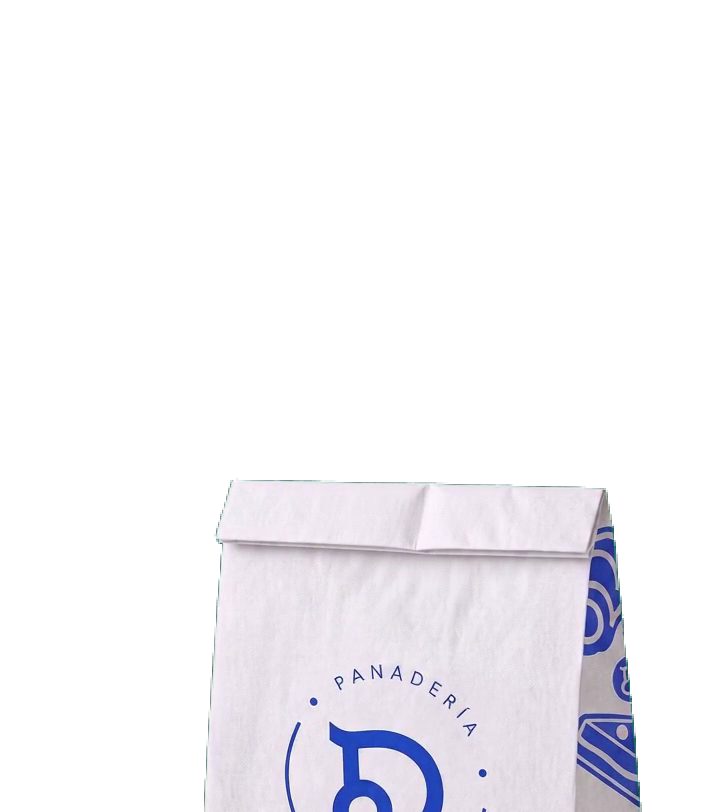
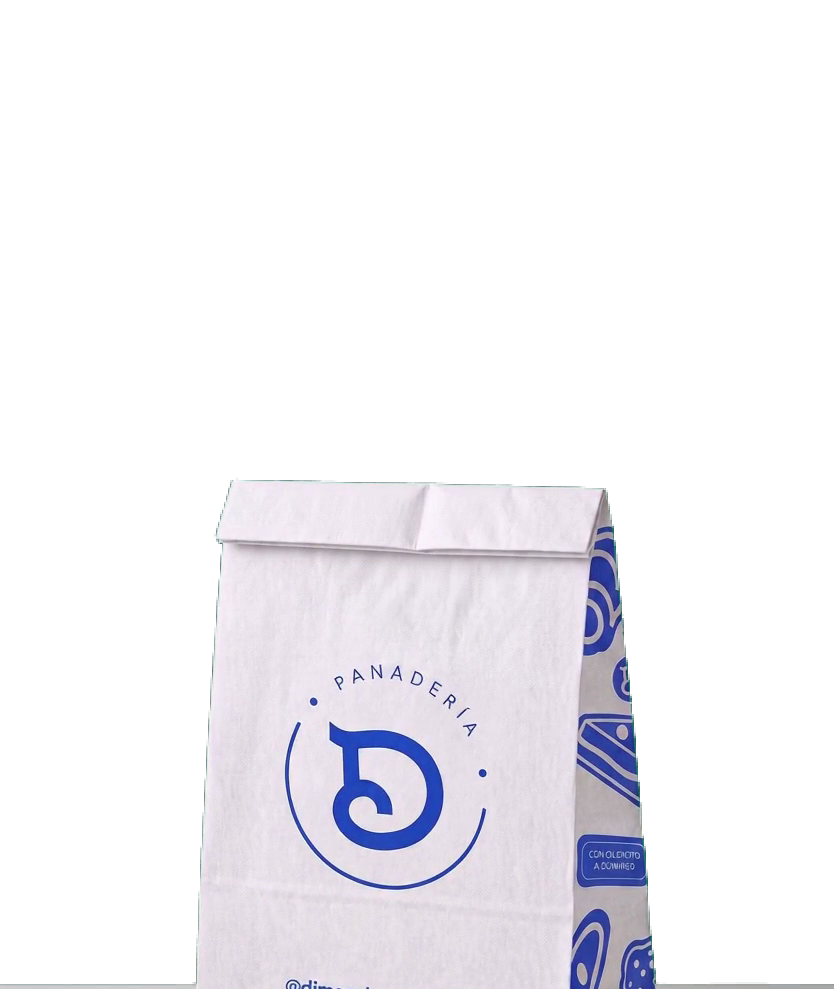
delivery: bolsa completa + mano nítida + entrada desde arriba
- Recorte del clip a la base real de la bolsa (estaba cortada).
- webm re-encodeado casi-lossless (crf 10) → se va el pixelado.
- La mano ENTRA deslizándose desde arriba (ManoClip), ya no aparece de golpe.

Changed region(s): [[0.0, 0.4618, 1.0, 1.0], [0.3361, 0.7389, 0.6417, 1.0], [0.6111, 0.8621, 0.6417, 0.8929]]

diff --git a/motor-contenido/remotion/src/components/PlacaDeliveryVideo.tsx b/motor-contenido/remotion/src/components/PlacaDeliveryVideo.tsx
@@ -148,6 +148,32 @@ const Calle: React.FC<{ opacity: number; freezeFrame: number }> = ({ opacity, fr
   );
 };
 
+/** El clip real de la mano, que ENTRA deslizándose desde arriba (no aparece de golpe). */
+const ManoClip: React.FC<{ box: { left: number; bottom: number; width: number; height: number } }> = ({ box }) => {
+  const f = useCurrentFrame();
+  const entryY = interpolate(f, [0, 18], [-880, 0], {
+    extrapolateLeft: "clamp",
+    extrapolateRight: "clamp",
+    easing: Easing.out(Easing.cubic),
+  });
+  return (
+    <OffthreadVideo
+      src={staticFile("assets/tv/delivery-mano-real.webm")}
+      transparent
+      muted
+      style={{
+        position: "absolute",
+        left: box.left,
+        bottom: box.bottom,
+        width: box.width,
+        height: box.height,
+        transform: `translateX(-50%) translateY(${entryY}px)`,
+        filter: "drop-shadow(0 16px 36px rgba(0,0,0,0.3))",
+      }}
+    />
+  );
+};
+
 export const PlacaDeliveryVideo: React.FC<PlacaDeliveryVideoProps> = ({
   titular,
   resalte,
@@ -188,7 +214,7 @@ export const PlacaDeliveryVideo: React.FC<PlacaDeliveryVideoProps> = ({
   const qrScale = interpolate(ctaS, [0, 1], [0.6, 1]);
   const ctaOp = interpolate(ctaS, [0, 0.5], [0, 1], { extrapolateRight: "clamp" });
 
-  const bagBox = { left: BAG_CX, bottom: 56, width: 858, height: 968 } as const;
+  const bagBox = { left: BAG_CX, bottom: 52, width: 850, height: 1008 } as const;
 
   return (
     <AbsoluteFill style={{ backgroundColor: COBALTO, overflow: "hidden" }}>
@@ -200,22 +226,9 @@ export const PlacaDeliveryVideo: React.FC<PlacaDeliveryVideoProps> = ({
         <Img src={TV_DELIVERY.vespaSide} style={{ height: 320, width: "auto", display: "block" }} />
       </div>
 
-      {/* 2) Clip REAL: la mano baja la bolsa, la apoya, suelta y se va (verde keyeado → webm alfa) */}
+      {/* 2) Clip REAL: la mano ENTRA desde arriba, baja la bolsa, la apoya, suelta y se va */}
       <Sequence from={CLIP_START} durationInFrames={CLIP_LEN}>
-        <OffthreadVideo
-          src={staticFile("assets/tv/delivery-mano-real.webm")}
-          transparent
-          muted
-          style={{
-            position: "absolute",
-            left: bagBox.left,
-            bottom: bagBox.bottom,
-            width: bagBox.width,
-            height: bagBox.height,
-            transform: "translateX(-50%)",
-            filter: "drop-shadow(0 16px 36px rgba(0,0,0,0.3))",
-          }}
-        />
+        <ManoClip box={bagBox} />
       </Sequence>
 
       {/* 2b) Bolsa apoyada (ultimo frame del clip) — queda fija para el hold */}